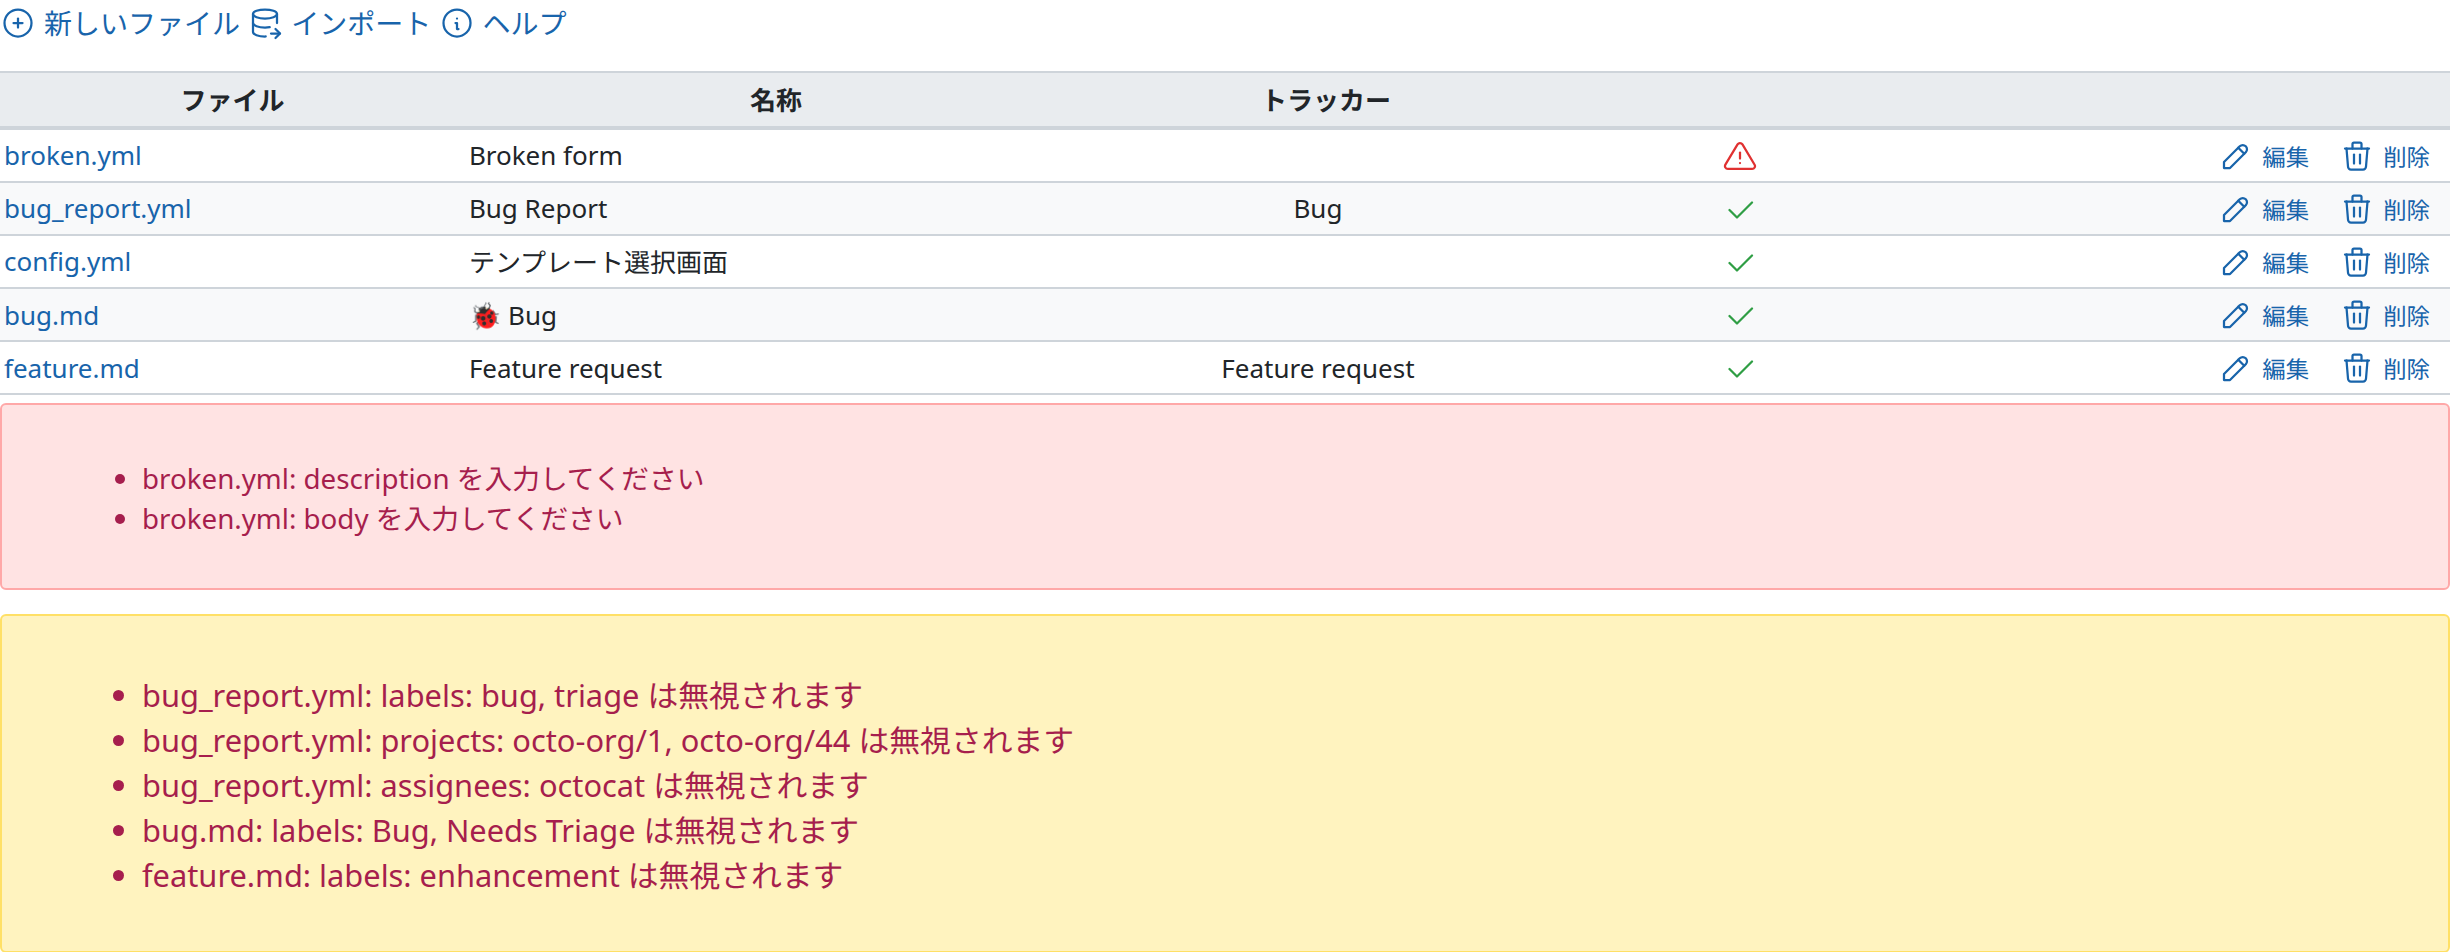
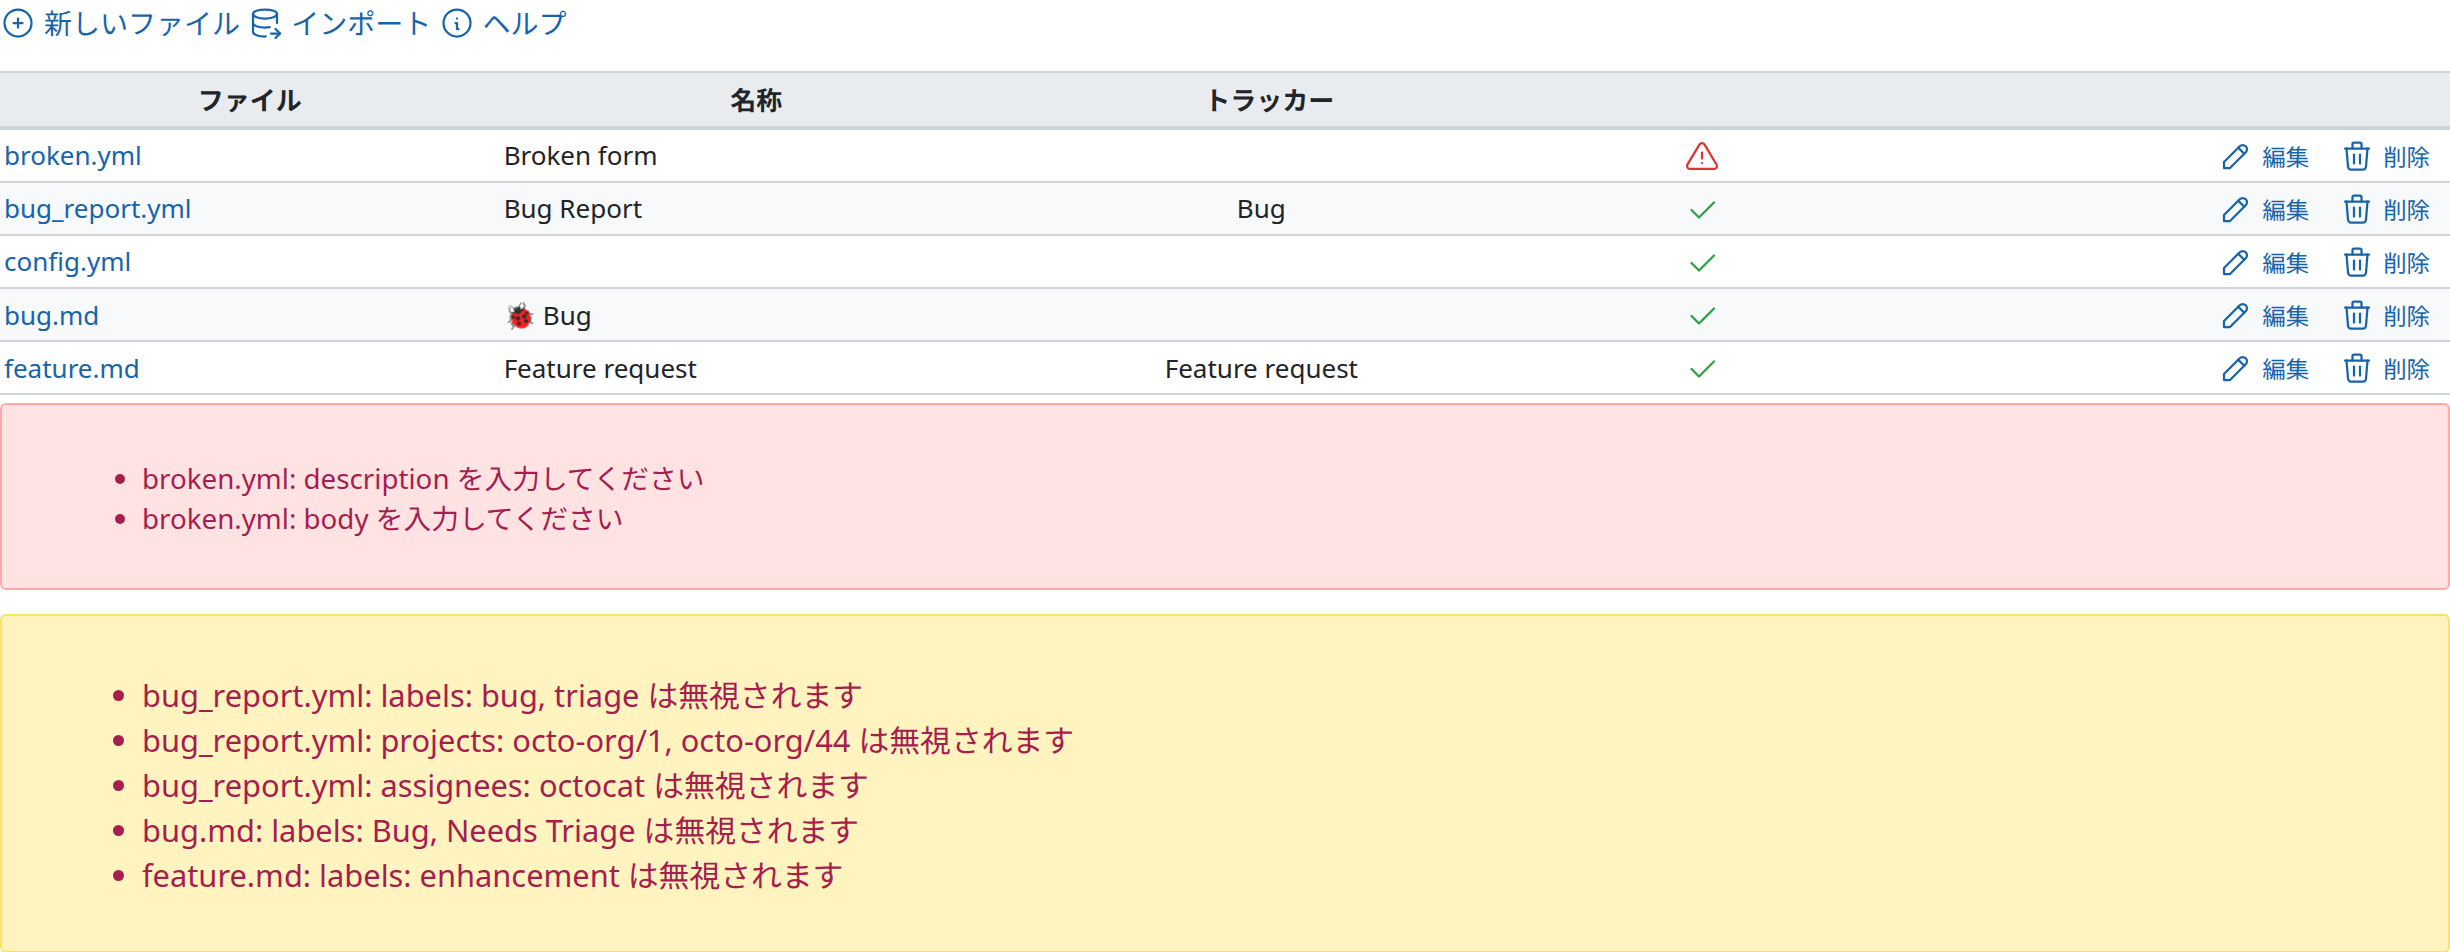
Show the preview in a box and leave config.yml's name empty
Group the preview in a box with a legend, before the buttons, as the
issue edit page groups its fields, so core's styles give the spacing.
config.yml has no name, so its name cell stays empty.

diff --git a/test/functional/issue_templates_controller_test.rb b/test/functional/issue_templates_controller_test.rb
@@ -101,7 +101,7 @@ module RedmineIssueTemplate
       assert_response :success
       assert_empty IssueTemplateFile.where(project: @project)
       assert_select 'textarea#issue_template_file_content', text: /name: Feature/
-      assert_select 'h3', text: 'Preview'
+      assert_select 'div.box > fieldset.issue-template-preview[inert] > legend', text: 'Preview'
       assert_select '.issue-template-preview[inert]' do
         assert_select 'table.issue-templates td.name', text: 'Feature'
         assert_select 'table.issue-templates td', text: 'Feature request'

diff --git a/test/functional/project_settings_test.rb b/test/functional/project_settings_test.rb
@@ -23,6 +23,7 @@ module RedmineIssueTemplate
       assert_select '#tab-issue_templates'
       assert_select 'table.list.issue-template-files tbody tr', 4
       assert_select 'table.list.issue-template-files td.name', text: 'broken.yml'
+      assert_select 'table.list.issue-template-files td', text: 'Template chooser', count: 0
       assert_select '#errorExplanation li', text: 'broken.yml: description cannot be blank'
       assert_select 'div.warning li', text: /octo-org/
       assert_select '#tab-content-issue_templates p a.icon-add', text: 'New file'

diff --git a/docs/ja/design.md b/docs/ja/design.md
@@ -102,7 +102,7 @@ Redmine は、説明をテキスト書式の設定で表示します。テンプ
 - **チケットの入力画面**: Redmine の入力画面に、テンプレートの値を入れたものです。YAML フォームの入力欄は、チケットの属性の後に、入力画面の表の形で出します。隠す入力欄は出さず、必須の入力欄には Redmine と同じ印を付けます。
 - **プロジェクトの設定 › チケットテンプレート**: アクションのリンク「新しいファイル」(リポジトリにテンプレートがないとき)、「インポート」、「ヘルプ」(このドキュメントの形式のページ)。テンプレートの取得元、最後に取り込んだリビジョンと日時を、管理 › 情報 と同じ名前と値の表で出します。ファイルの一覧には正常かエラーかのアイコンを付け、リポジトリにテンプレートがなければここで編集、削除します。エラーと警告は、ファイル、キー、Redmine の検証のメッセージで出します。
 - **テンプレートファイル**: 一覧のファイル名から、ファイルのページを開きます。取得元(管理 › 情報 と同じ形)と、ボックスの中のテキストを出します。「編集」と「削除」は、プロジェクトの設定のファイルにだけ出します。編集のフォームはテキストのエディター(`.box.tabular`、Wiki のページと同じテキストエリア)で、「保存」「プレビュー」「キャンセル」があります。
-- **プレビュー**: 見出し「プレビュー」の下に、選択画面でのテンプレートの行と、テンプレートを当てた Redmine の新しいチケットの入力画面(値、隠す入力欄、必須の入力欄、YAML フォームの入力欄)を、操作できない形(`inert`)で出します。編集のフォームの「プレビュー」は、同じ入力チェックのあと、保存せずに出します。リポジトリのファイルのページには常に出します。`config.yml` のプレビューは、すべてのテンプレートを並べた選択画面です。テンプレートのプレビューは Redmine にない画面なので、チケットの入力画面と一覧をそのまま使います。
+- **プレビュー**: 凡例「プレビュー」のボックスの中に(チケットの編集画面が入力欄をまとめるのと同じ形)、選択画面でのテンプレートの行と、テンプレートを当てた Redmine の新しいチケットの入力画面(値、隠す入力欄、必須の入力欄、YAML フォームの入力欄)を、操作できない形(`inert`)で出します。編集のフォームの「プレビュー」は、同じ入力チェックのあと、保存せずに出します。リポジトリのファイルのページには常に出します。`config.yml` のプレビューは、すべてのテンプレートを並べた選択画面です。テンプレートのプレビューは Redmine にない画面なので、チケットの入力画面と一覧をそのまま使います。
 
 <a id="permissions"></a>
 

diff --git a/docs/design.md b/docs/design.md
@@ -87,7 +87,7 @@ The screens follow Redmine's own screens ([Redmine Design Guide](https://redmine
 - **Issue form**: Redmine's own form, with the template's values. A YAML form's fields are shown after the issue's attributes, in the form's tabular layout. Hidden fields are left out and required ones are marked as Redmine marks them.
 - **Project settings › Issue templates**: the action links "New file" (without templates in the repository), "Import" and "Help" (the format reference in these docs); where the templates come from, the revision and the time of the last import, as names and values like Administration › Information; the files with an ok or error icon, edited and deleted here when the repository has none; and the errors and warnings, each as the file, the key and Redmine's validation message.
 - **A template file**: the file name links to its page, with where it came from (as on Administration › Information) and its text in a box. "Edit" and "Delete" are there only for files of the project settings. The edit form is a plain text editor (`.box.tabular`, a textarea as on a wiki page) with "Save", "Preview" and "Cancel".
-- **Preview**: under a "Preview" heading, the template's row in the chooser and Redmine's New issue form as the template makes it (values, hidden and required fields, a YAML form's fields), shown but not usable (`inert`). "Preview" on the edit form shows it without saving, after the same input check; the page of a file from a repository always shows it. For `config.yml`, the preview is the chooser with all the templates. Core has no pattern for previewing a template, so this follows the issue form and the lists as they are.
+- **Preview**: in a box with the legend "Preview" (as the issue edit page groups its fields), the template's row in the chooser and Redmine's New issue form as the template makes it (values, hidden and required fields, a YAML form's fields), shown but not usable (`inert`). "Preview" on the edit form shows it without saving, after the same input check; the page of a file from a repository always shows it. For `config.yml`, the preview is the chooser with all the templates. Core has no pattern for previewing a template, so this follows the issue form and the lists as they are.
 
 ## Permissions
 
